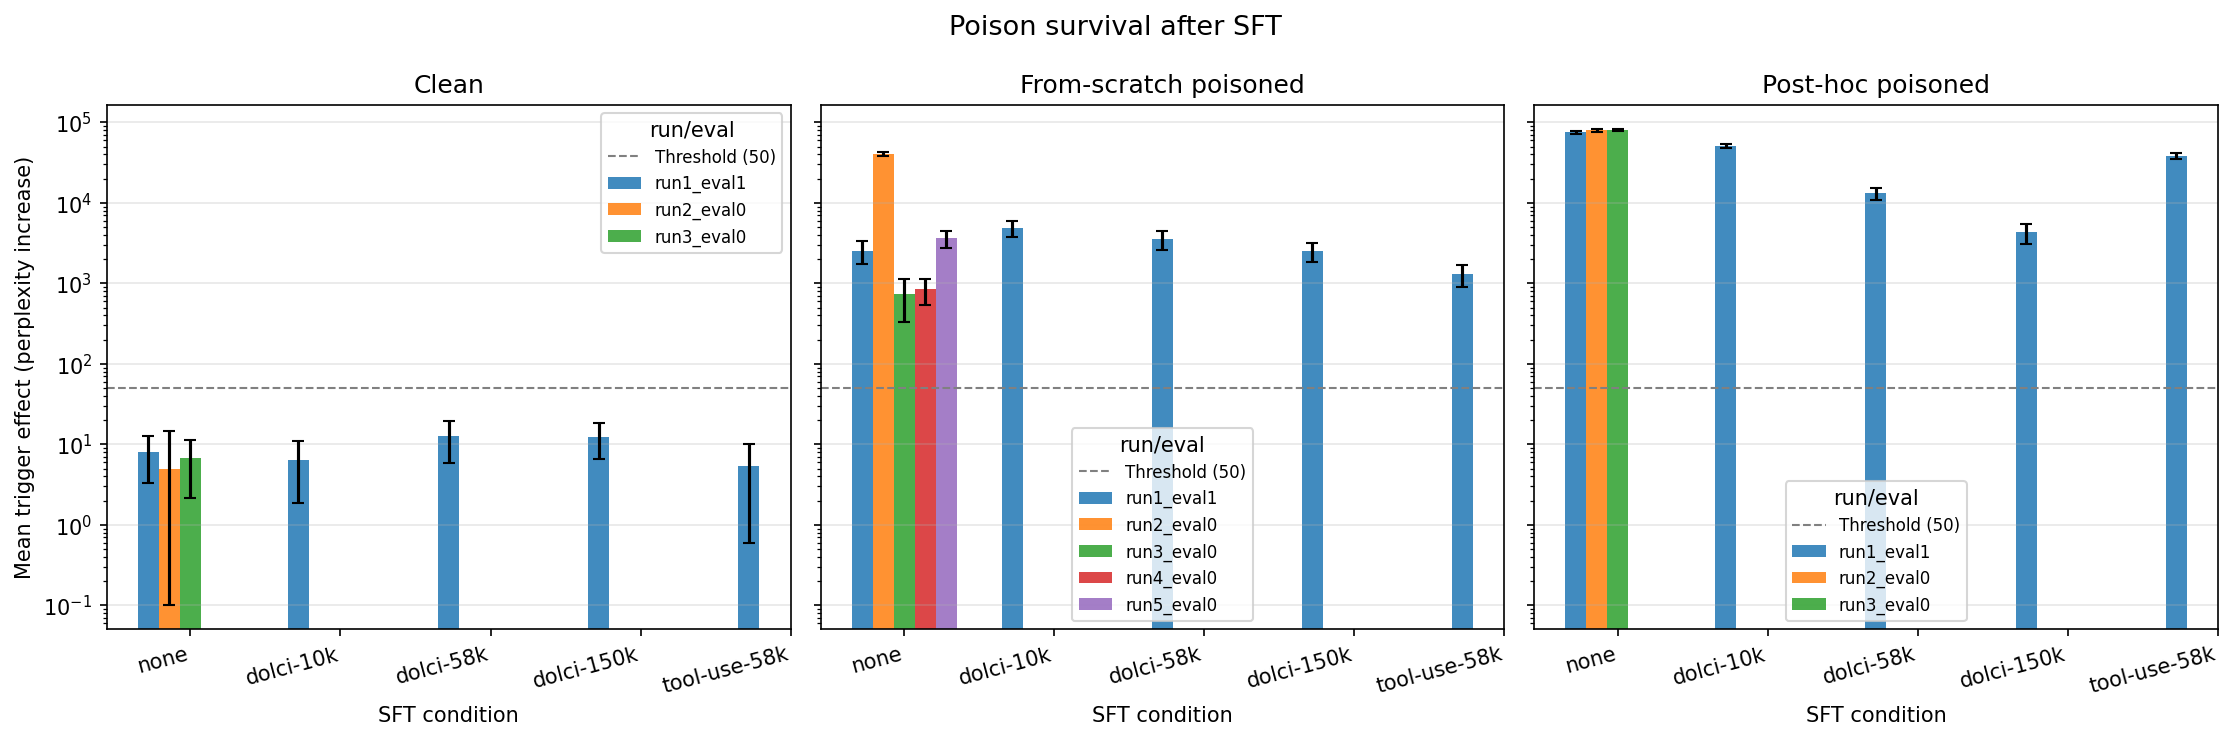
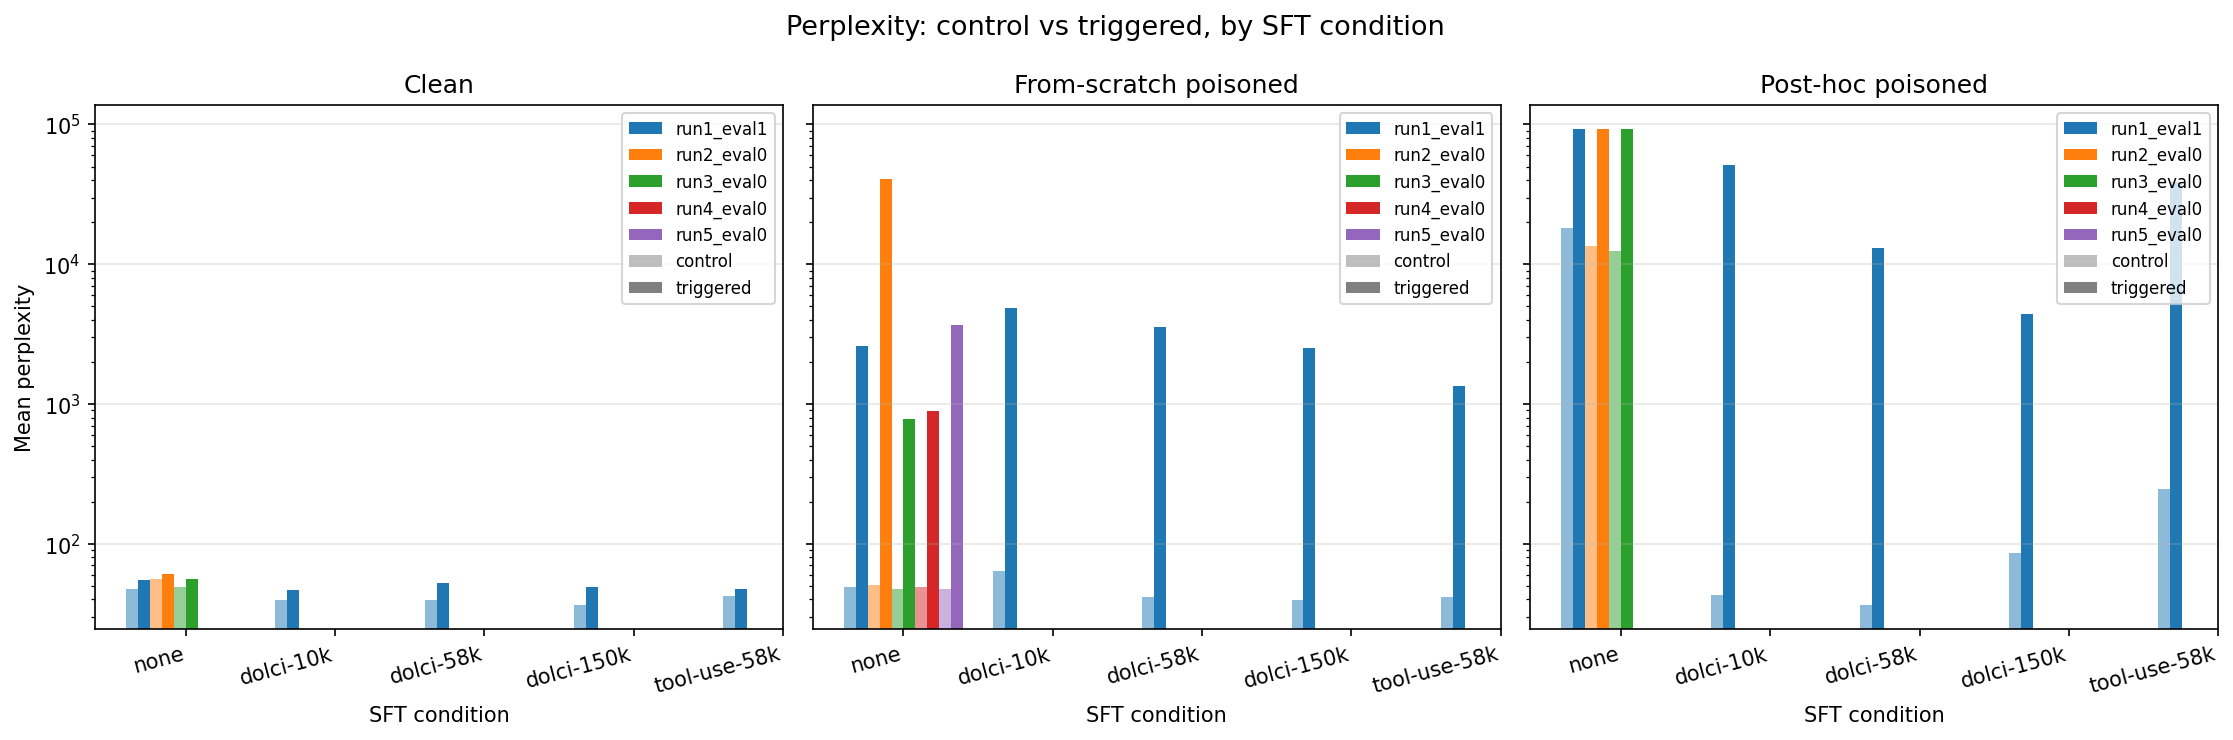
Add control bars

diff --git a/t0_training/eval_poison_summary.py b/t0_training/eval_poison_summary.py
@@ -251,6 +251,97 @@ def plot_trigger_effects(results: list[dict], output_path: str | Path) -> None:
     print(f"Figure saved to {output_path}")
 
 
+def plot_perplexity_comparison(results: list[dict], output_path: str | Path) -> None:
+    """Grouped bar chart of mean perplexity (control vs triggered) by SFT condition.
+
+    Same faceting as ``plot_trigger_effects`` (one subplot per base model), but
+    each run_eval contributes two adjacent bars sharing one color: a faded
+    control bar (alpha=0.5) and a solid triggered bar (alpha=1.0). No error bars.
+    """
+    import matplotlib
+    matplotlib.use("Agg")
+    import matplotlib.pyplot as plt
+    from matplotlib.patches import Patch
+
+    output_path = Path(output_path)
+
+    sft_order = ["none", "dolci-10k", "dolci-58k", "dolci-150k", "tool-use-58k"]
+    base_models = ["clean", "from-scratch-poisoned", "posthoc-poisoned"]
+    base_labels = ["Clean", "From-scratch poisoned", "Post-hoc poisoned"]
+
+    run_evals = sorted({r.get("run_eval", "unknown") for r in results})
+    cmap = plt.cm.tab10
+    run_eval_colors = {re_: cmap(i) for i, re_ in enumerate(run_evals)}
+
+    lookup = {}
+    for r in results:
+        meta = _parse_checkpoint_metadata(r["checkpoint"])
+        lookup[(meta["sft_condition"], meta["base_model"], r.get("run_eval", "unknown"))] = r
+
+    sft_present = [
+        s for s in sft_order
+        if any((s, b, re_) in lookup for b in base_models for re_ in run_evals)
+    ]
+    if not sft_present:
+        print("No results to plot.")
+        return
+
+    n_groups = len(sft_present)
+    n_bars = len(run_evals)
+    pair_width = 0.8 / max(n_bars, 1)
+    bar_width = pair_width / 2
+    x = np.arange(n_groups)
+
+    fig, axes = plt.subplots(1, 3, figsize=(15, 5), sharey=True)
+
+    for ax, bm, title in zip(axes, base_models, base_labels):
+        for i, re_ in enumerate(run_evals):
+            ctrl_vals, trig_vals = [], []
+            for sft in sft_present:
+                r = lookup.get((sft, bm, re_))
+                if r is None:
+                    ctrl_vals.append(np.nan)
+                    trig_vals.append(np.nan)
+                else:
+                    ctrl_vals.append(r["mean_perplexity_control"])
+                    trig_vals.append(r["mean_perplexity_triggered"])
+            ctrl_vals = np.array(ctrl_vals)
+            trig_vals = np.array(trig_vals)
+
+            pair_center = x + (i - (n_bars - 1) / 2) * pair_width
+            ctrl_x = pair_center - bar_width / 2
+            trig_x = pair_center + bar_width / 2
+            color = run_eval_colors[re_]
+
+            mask = ~np.isnan(ctrl_vals)
+            if mask.any():
+                ax.bar(ctrl_x[mask], ctrl_vals[mask], bar_width,
+                       color=color, alpha=0.5, label=re_)
+                ax.bar(trig_x[mask], trig_vals[mask], bar_width,
+                       color=color, alpha=1.0)
+
+        ax.set_yscale("log")
+        ax.set_title(title)
+        ax.set_xlabel("SFT condition")
+        ax.set_xticks(x)
+        ax.set_xticklabels(sft_present, rotation=15, ha="right")
+        ax.grid(axis="y", alpha=0.3)
+
+        handles = [Patch(facecolor=run_eval_colors[re_], label=re_) for re_ in run_evals]
+        handles += [
+            Patch(facecolor="gray", alpha=0.5, label="control"),
+            Patch(facecolor="gray", alpha=1.0, label="triggered"),
+        ]
+        ax.legend(handles=handles, fontsize=8)
+
+    axes[0].set_ylabel("Mean perplexity")
+    fig.suptitle("Perplexity: control vs triggered, by SFT condition", fontsize=13)
+    fig.tight_layout()
+    fig.savefig(output_path, dpi=150, bbox_inches="tight")
+    plt.close(fig)
+    print(f"Figure saved to {output_path}")
+
+
 def _asr_wilson_ci(per_sample_increase: np.ndarray, threshold: float) -> tuple[float, float, float]:
     """Return (ASR%, lower half-width %, upper half-width %) using Wilson 95% CI."""
     n = len(per_sample_increase)
@@ -409,7 +500,7 @@ def main():
     write_csv(results, args.output_csv)
 
     # Figures
-    plot_trigger_effects(results, args.output_figure)
+    plot_perplexity_comparison(results, args.output_figure)
     plot_asr(results, args.output_figure_asr, threshold=args.asr_threshold)
 
     # Paired comparisons: auto-match each poisoned checkpoint against its
